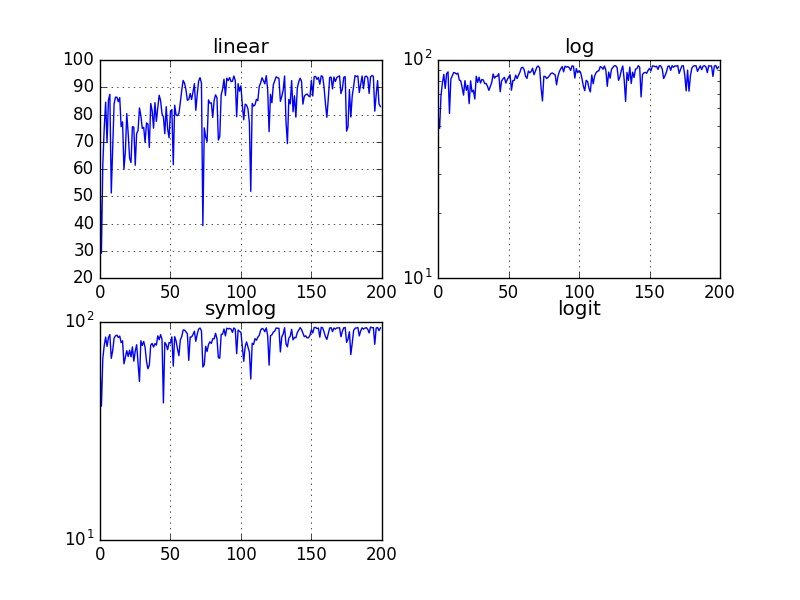
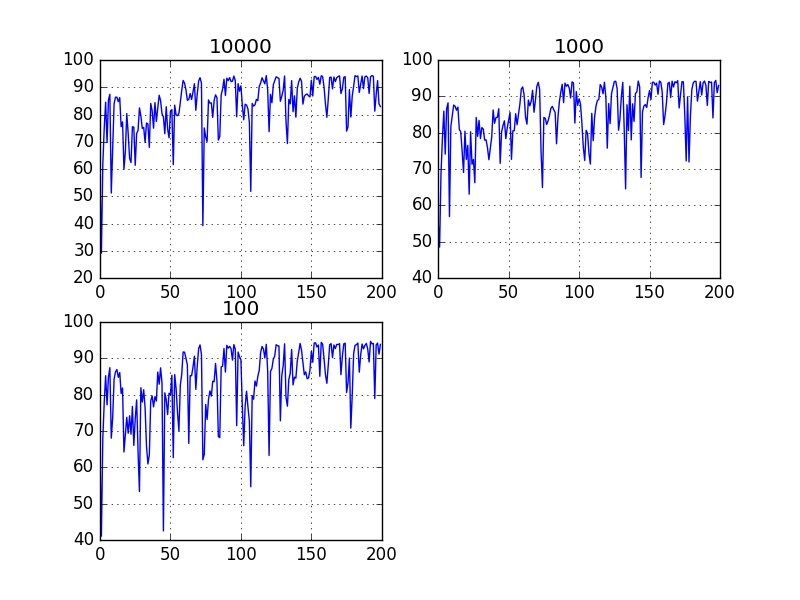
Change title

diff --git a/torchnet_qan/20160816/paint.py b/torchnet_qan/20160816/paint.py
@@ -31,31 +31,25 @@ plt.figure(1)
 # linear
 plt.subplot(221)
 plt.plot(t, ar1)
-plt.yscale('linear')
-plt.title('linear')
+#plt.yscale('linear')
+plt.title('10000')
 plt.grid(True)
 
 # log
 plt.subplot(222)
 plt.plot(t, ar2)
-plt.yscale('log')
-plt.title('log')
+#plt.yscale('log')
+plt.title('1000')
 plt.grid(True)
 
 
 # symmetric log
 plt.subplot(223)
 plt.plot(t, ar3)
-plt.yscale('symlog', linthreshy=0.05)
-plt.title('symlog')
+#plt.yscale('symlog', linthreshy=0.05)
+plt.title('100')
 plt.grid(True)
 
-# logit
-plt.subplot(224)
-plt.plot(t, ar3)
-plt.yscale('logit')
-plt.title('logit')
-plt.grid(True)
 
 plt.savefig('acc.jpg')
 
